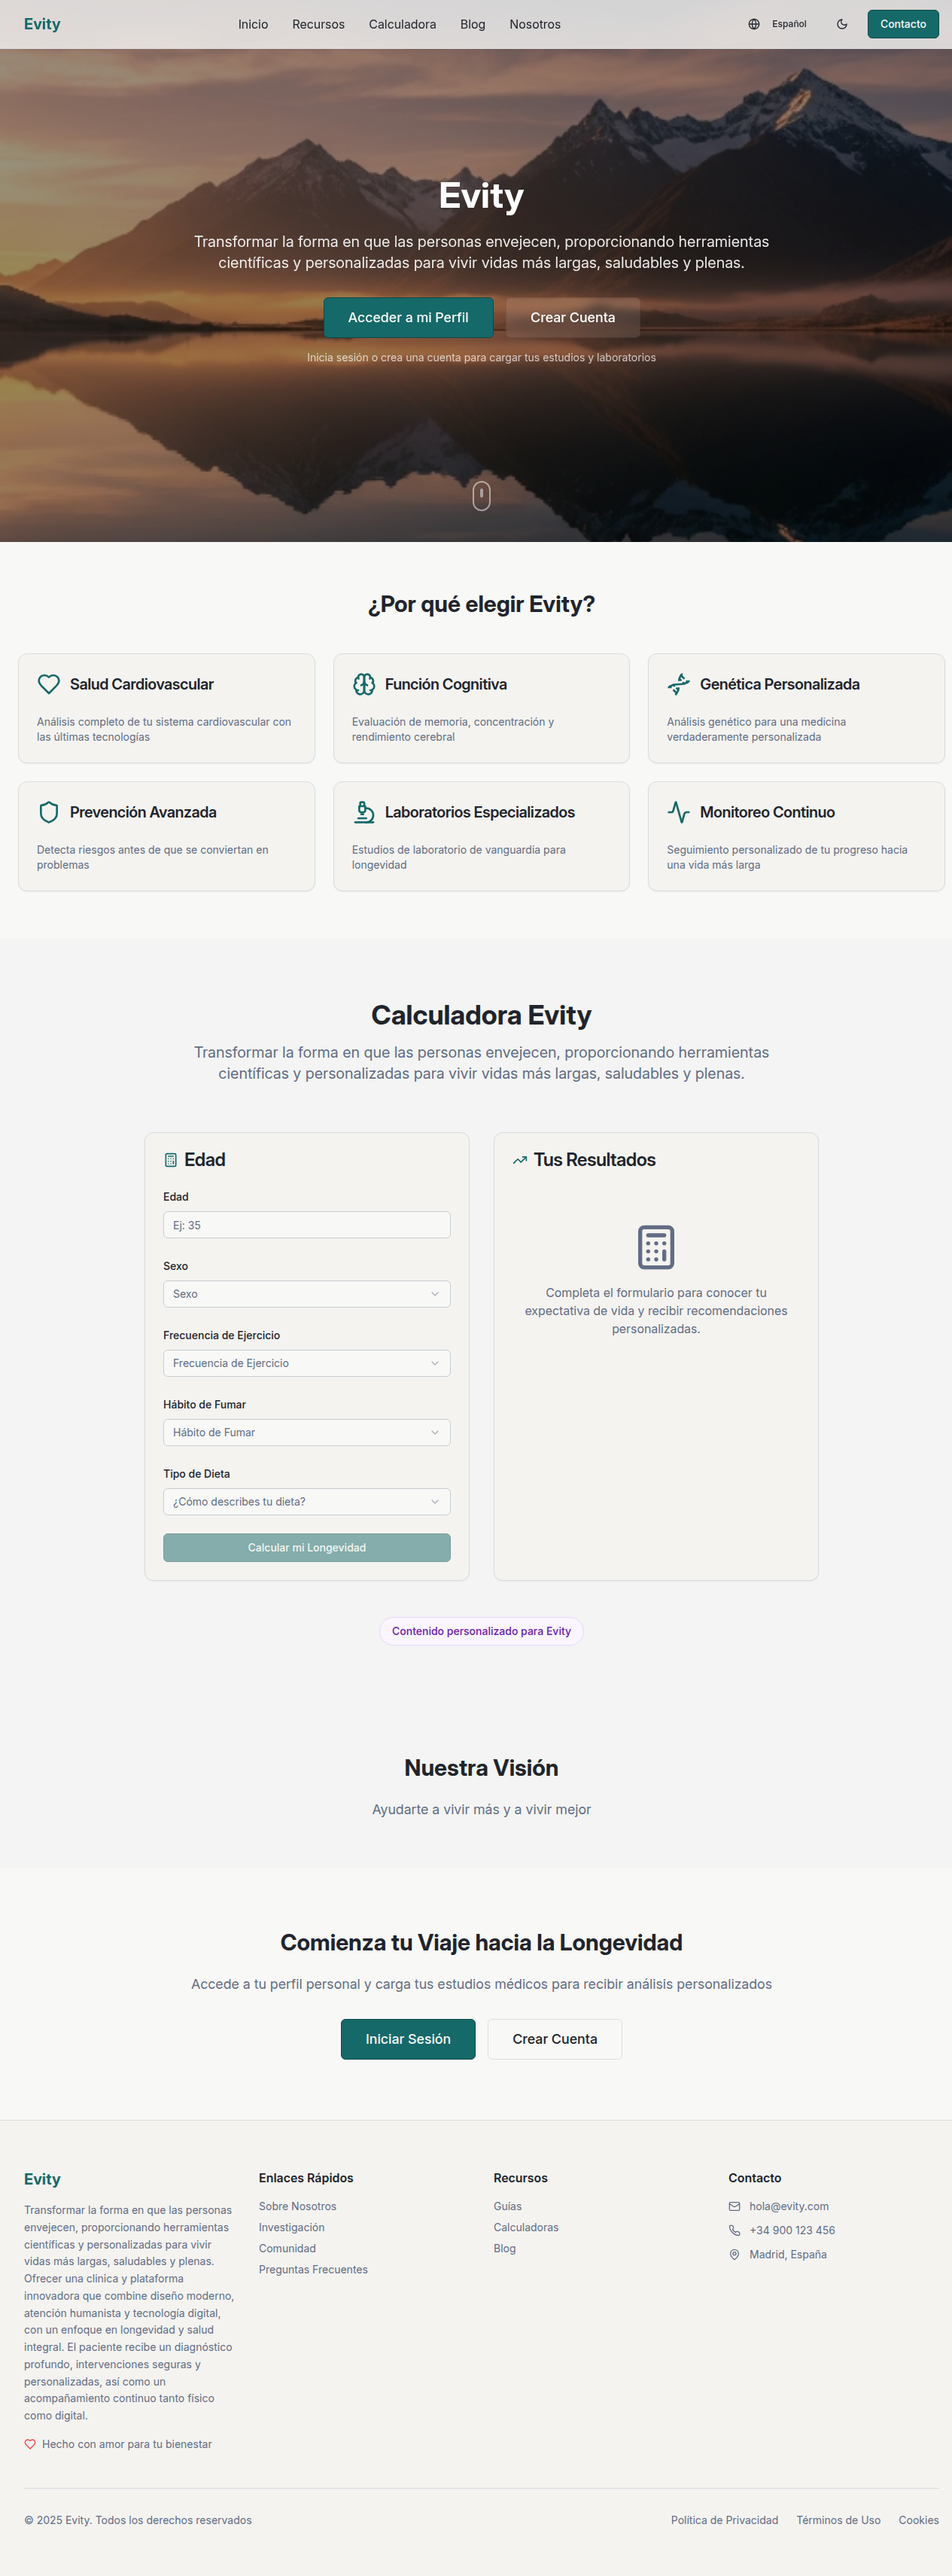
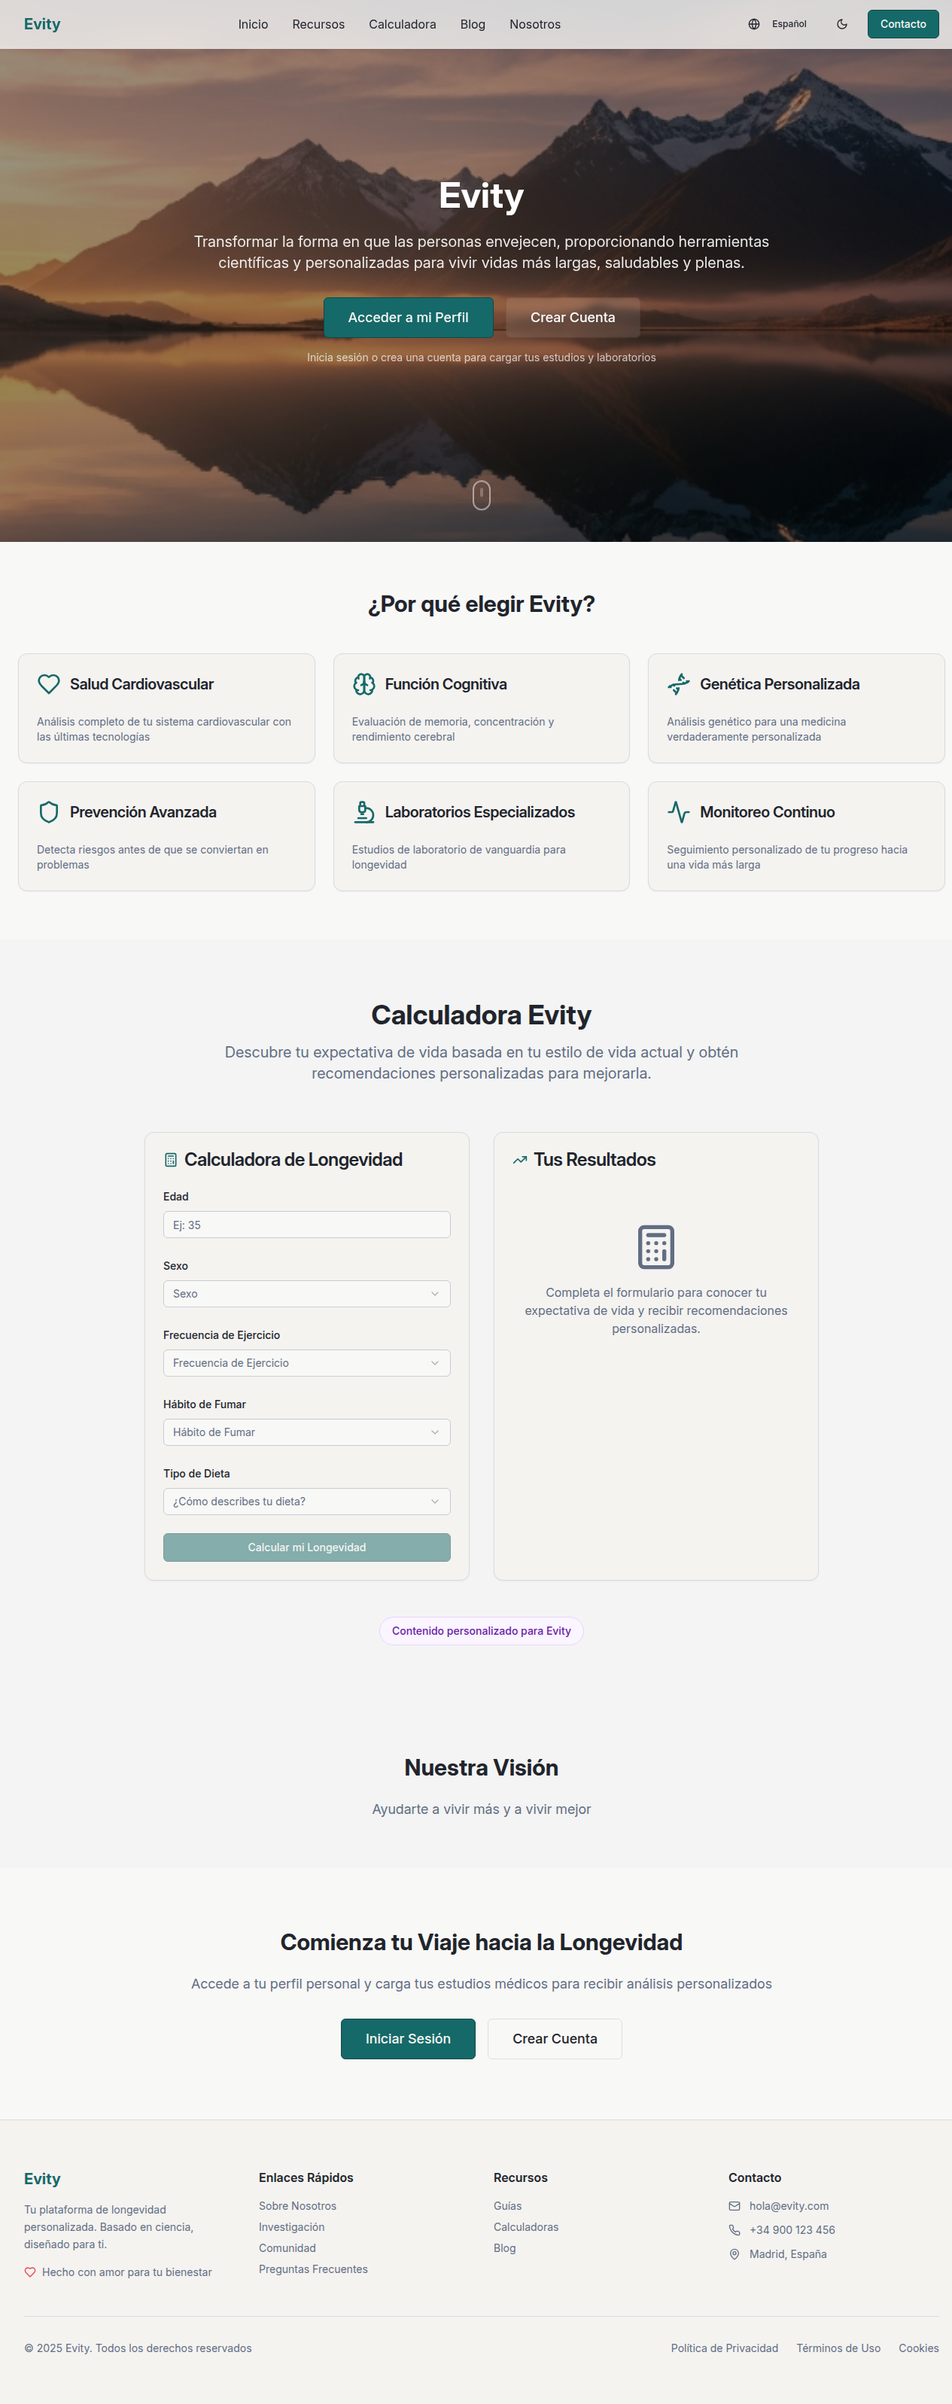
Update website to properly display content in the selected language
Refactor translations and component logic in CalculatorSection and Footer to correctly use the `t` function for language-specific content. Update LanguageContext to ensure type safety when accessing translations.

Replit-Commit-Author: Agent
Replit-Commit-Session-Id: 9785e452-959f-4249-9259-aa383b509b34
Replit-Commit-Checkpoint-Type: full_checkpoint
Replit-Commit-Screenshot-Url: https://storage.googleapis.com/screenshot-production-us-central1/05eaf26c-4c54-4628-a357-129cb193cc52/9785e452-959f-4249-9259-aa383b509b34/d8Z6FkW

diff --git a/client/src/components/Footer.tsx b/client/src/components/Footer.tsx
@@ -19,21 +19,8 @@ export default function Footer() {
 
   const companyName = confluenceData?.companyName || "Evity";
   
-  // Build comprehensive company description using all available content
-  let companyDescription = t('footer.companyDescription');
-  
-  if (confluenceData?.mission) {
-    companyDescription = confluenceData.mission;
-  }
-  
-  if (confluenceData?.vision) {
-    // If we have both mission and vision, combine them
-    if (confluenceData?.mission) {
-      companyDescription = `${confluenceData.mission} ${confluenceData.vision}`;
-    } else {
-      companyDescription = confluenceData.vision;
-    }
-  }
+  // Use translated company description that respects user's language selection
+  const companyDescription = t('footer.companyDescription');
 
   return (
     <footer className="bg-card border-t border-card-border">

diff --git a/client/src/components/CalculatorSection.tsx b/client/src/components/CalculatorSection.tsx
@@ -69,7 +69,7 @@ export default function CalculatorSection() {
             {t('calculator.title')} {companyName}
           </h2>
           <p className="text-xl text-muted-foreground max-w-3xl mx-auto">
-            {confluenceData?.mission || t('calculator.subtitle')}
+            {t('calculator.subtitle')}
           </p>
         </div>
 

diff --git a/client/src/contexts/LanguageContext.tsx b/client/src/contexts/LanguageContext.tsx
@@ -916,7 +916,7 @@ export function LanguageProvider({ children }: LanguageProviderProps) {
   };
 
   const t = (key: string): string => {
-    return translations[language][key] || key;
+    return (translations[language] as Record<string, string>)[key] || key;
   };
 
   return (
